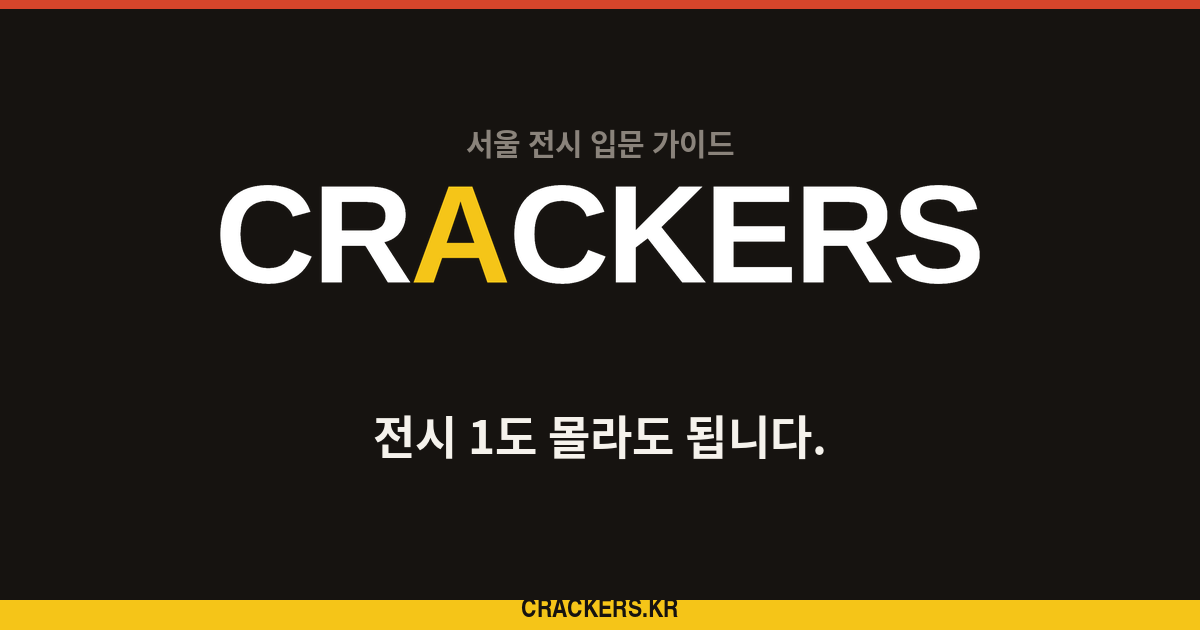
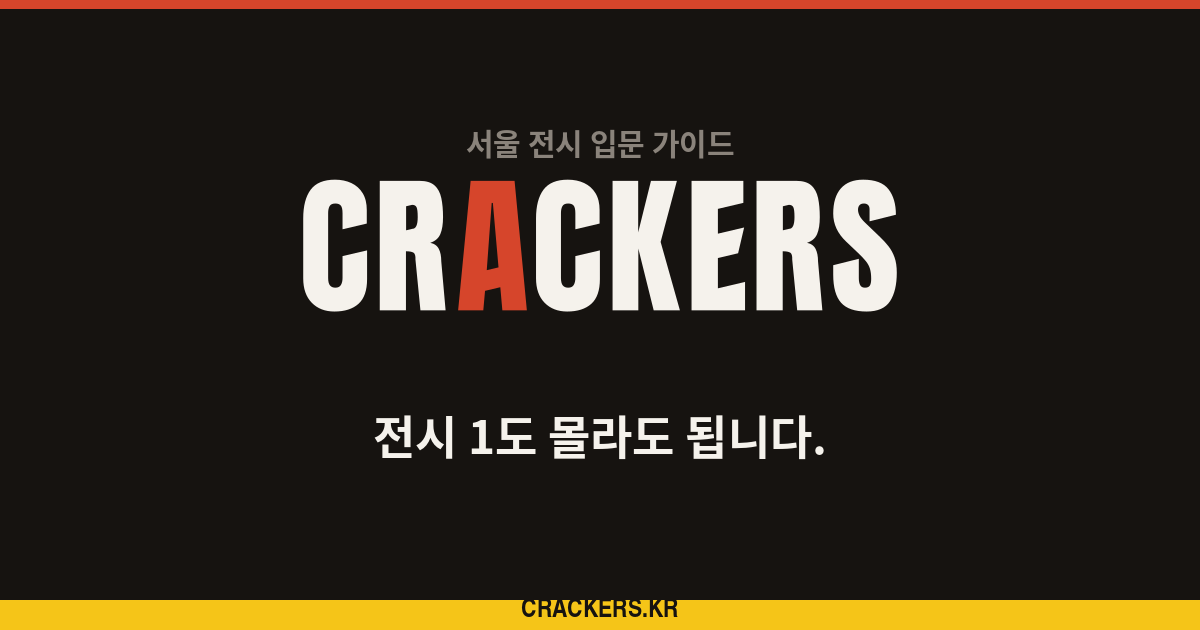
크래커스 최종 제호 적용

Changed region(s): [[0.185, 0.2714, 0.8325, 0.5127]]

diff --git a/daily07.html b/daily07.html
@@ -11,7 +11,7 @@
 <meta property="og:description" content="말려 나온 악보 끝, 비스듬한 파란 봉투, 녹슨 철물. 사물의 가장자리부터 전체 회화로 돌아옵니다.">
 <meta property="og:url" content="https://crackers.kr/daily07">
 <meta property="og:type" content="article">
-<meta property="og:image" content="https://crackers.kr/og.png">
+<meta property="og:image" content="https://crackers.kr/og.png?v=20261127-final">
 <meta name="twitter:card" content="summary_large_image">
 <link rel="icon" href="/favicon.ico?v=20261127" sizes="16x16 32x32">
 <link rel="icon" type="image/png" sizes="16x16" href="/favicon-16.png?v=20261127">
@@ -21,11 +21,11 @@
 <link rel="preconnect" href="https://fonts.gstatic.com" crossorigin>
 <link href="https://fonts.googleapis.com/css2?family=Anton&family=Black+Han+Sans&display=swap" rel="stylesheet">
 <link rel="stylesheet" as="style" crossorigin href="https://cdn.jsdelivr.net/gh/orioncactus/pretendard@v1.3.9/dist/web/variable/pretendardvariable-dynamic-subset.min.css">
-<link rel="stylesheet" href="/assets/article.css?v=20261127-brand">
+<link rel="stylesheet" href="/assets/article.css?v=20261127-final-wordmark">
 </head>
 <body class="daily-article">
 <a class="skip-link" href="#article">본문으로 바로가기</a>
-<div class="topbar"><a class="logo wordmark" href="index.html"><img class="brand-wordmark" src="/assets/brand/crackers-red-a.svg" width="412" height="102" alt="CRACKERS"></a><a class="back" href="daily.html">← 그림 속 일상 모아보기</a></div>
+<div class="topbar"><a class="logo wordmark" href="index.html"><img class="brand-wordmark" src="/assets/brand/crackers-red-a.svg?v=20261127-final" width="412" height="102" alt="CRACKERS"></a><a class="back" href="daily.html">← 그림 속 일상 모아보기</a></div>
 <main><article id="article">
   <span class="ep-label">그림 속 일상 07</span>
   <h1>바이올린보다,<br>종이 모서리부터 볼까요?</h1>
@@ -57,7 +57,7 @@
 <p>악보 끝과 파란 봉투, 위쪽 경첩을 전체 화면에서 다시 찾아보세요. 처음에는 바이올린만 보였다면 지금은 무엇이 먼저 눈에 들어오나요? 사물의 가장자리와 겹침을 따라 본 뒤, 물건들이 놓인 전체 관계로 돌아옵니다.</p>
   <aside class="sources"><h2>작품과 출처</h2><p>William Michael Harnett, The Old Violin,1886. National Gallery of Art,Washington,1993.15.1. Gift of Mr.and Mrs.Richard Mellon Scaife in honor of Paul Mellon. Public domain. 부분 장면은 같은 원본의 크롭이며 내용·색·방향을 바꾸지 않았습니다.</p><p>NGA의 작품 정보와 Visual Description을 참고해 사물의 위치와 매체를 확인했습니다. 악보·봉투·철물은 실제로 붙인 물건이 아니라 캔버스 위에 그려진 표현입니다. 인물의 감정·연주 소리·신문 글자 내용을 추정하지 않습니다.</p><ul><li><a href="https://www.nga.gov/artworks/79531-old-violin" target="_blank" rel="noopener">National Gallery of Art · 작품 정보·시각해설·Public domain</a></li><li><a href="https://api.nga.gov/iiif/e8bb571a-a90d-45fa-8589-cd98b4f952a4/full/full/0/default.jpg?attachment_filename=the_old_violin_1993.15.1.jpg" target="_blank" rel="noopener">NGA · 실제 제작 원본 이미지</a></li></ul></aside>
   <section class="newsletter-conversion" aria-labelledby="newsletter-title-daily07">
-    <p class="newsletter-label">CRACKERS LETTER</p>
+    <img class="brand-letter" src="/assets/brand/crackers-letter-on-dark.svg?v=20261127-final" width="386" height="68" alt="CRACKERS LETTER">
     <h2 id="newsletter-title-daily07">다음 전시, 조금 더 쉽게 골라볼까요?</h2>
     <p>서울 전시 추천과 그림 속 이야기, 처음 볼 때 눈여겨볼 포인트를 메일로 전해드려요.</p>
     <a href="https://maily.so/crackers?utm_source=crackers_website&amp;utm_medium=article_cta&amp;utm_campaign=live_pilot_newsletter_v1&amp;utm_content=daily07_footer" target="_blank" rel="noopener">CRACKERS LETTER 구독하기 →</a>

diff --git a/daily06.html b/daily06.html
@@ -11,7 +11,7 @@
 <meta property="og:description" content="왼쪽의 진열 모자, 오른쪽 손이 닿은 모자, 앞쪽의 파란 모자. 물건의 위치부터 가게를 봅니다.">
 <meta property="og:url" content="https://crackers.kr/daily06">
 <meta property="og:type" content="article">
-<meta property="og:image" content="https://crackers.kr/og.png">
+<meta property="og:image" content="https://crackers.kr/og.png?v=20261127-final">
 <meta name="twitter:card" content="summary_large_image">
 <link rel="icon" href="/favicon.ico?v=20261127" sizes="16x16 32x32">
 <link rel="icon" type="image/png" sizes="16x16" href="/favicon-16.png?v=20261127">
@@ -21,11 +21,11 @@
 <link rel="preconnect" href="https://fonts.gstatic.com" crossorigin>
 <link href="https://fonts.googleapis.com/css2?family=Anton&family=Black+Han+Sans&display=swap" rel="stylesheet">
 <link rel="stylesheet" as="style" crossorigin href="https://cdn.jsdelivr.net/gh/orioncactus/pretendard@v1.3.9/dist/web/variable/pretendardvariable-dynamic-subset.min.css">
-<link rel="stylesheet" href="/assets/article.css?v=20261127-brand">
+<link rel="stylesheet" href="/assets/article.css?v=20261127-final-wordmark">
 </head>
 <body class="daily-article">
 <a class="skip-link" href="#article">본문으로 바로가기</a>
-<div class="topbar"><a class="logo wordmark" href="index.html"><img class="brand-wordmark" src="/assets/brand/crackers-red-a.svg" width="412" height="102" alt="CRACKERS"></a><a class="back" href="daily.html">← 그림 속 일상 모아보기</a></div>
+<div class="topbar"><a class="logo wordmark" href="index.html"><img class="brand-wordmark" src="/assets/brand/crackers-red-a.svg?v=20261127-final" width="412" height="102" alt="CRACKERS"></a><a class="back" href="daily.html">← 그림 속 일상 모아보기</a></div>
 <main><article id="article">
   <span class="ep-label">그림 속 일상 06</span>
   <h1>모자 가게에서,<br>모자부터 골라볼까요?</h1>
@@ -57,7 +57,7 @@
 <p>진열된 모자, 손이 닿은 모자, 앞쪽의 파란 모자를 차례로 봤습니다. 모자와 사람의 위치를 전체 그림에서 다시 확인해보세요. 처음에는 인물만 보였다면 지금은 어느 물건이 먼저 눈에 들어오나요?</p>
   <aside class="sources"><h2>작품과 출처</h2><p>Edgar Degas, The Millinery Shop, 1879–86. Art Institute of Chicago, Mr. and Mrs. Lewis Larned Coburn Memorial Collection, 1933.428. Image via Wikimedia Commons, CC0. 일부 장면은 같은 원본을 크롭했습니다.</p><p>시카고미술관의 작품 정보·해설(description, CC BY 4.0)을 참고해 요약했습니다. 인물이 고객인지 작업자인지, 모자를 구매하거나 착용 중인지 단정하지 않습니다. 모자·손·위치에 관한 문구는 실제 원작을 바탕으로 한 CRACKERS의 관찰 안내입니다.</p><ul><li><a href="https://api.artic.edu/api/v1/artworks/14572" target="_blank" rel="noopener">시카고미술관 · 작품 정보와 해설(CC BY 4.0)</a></li><li><a href="https://commons.wikimedia.org/wiki/File:Hilaire_Germain_Edgar_Degas_-_The_Millinery_Shop_-_1933.428_-_Art_Institute_of_Chicago.jpg" target="_blank" rel="noopener">Wikimedia Commons · 실제 이미지와 CC0 표기</a></li></ul></aside>
   <section class="newsletter-conversion" aria-labelledby="newsletter-title-daily06">
-    <p class="newsletter-label">CRACKERS LETTER</p>
+    <img class="brand-letter" src="/assets/brand/crackers-letter-on-dark.svg?v=20261127-final" width="386" height="68" alt="CRACKERS LETTER">
     <h2 id="newsletter-title-daily06">다음 전시, 조금 더 쉽게 골라볼까요?</h2>
     <p>서울 전시 추천과 그림 속 이야기, 처음 볼 때 눈여겨볼 포인트를 메일로 전해드려요.</p>
     <a href="https://maily.so/crackers?utm_source=crackers_website&amp;utm_medium=article_cta&amp;utm_campaign=live_pilot_newsletter_v1&amp;utm_content=daily06_footer" target="_blank" rel="noopener">CRACKERS LETTER 구독하기 →</a>

diff --git a/daily09.html b/daily09.html
@@ -11,7 +11,7 @@
 <meta property="og:description" content="흰 천의 파란 그늘에서 주전자의 밝은 가장자리, 대야의 붉은빛으로. 작은 색을 찾은 뒤 방 전체의 빛을 봅니다.">
 <meta property="og:url" content="https://crackers.kr/daily09">
 <meta property="og:type" content="article">
-<meta property="og:image" content="https://crackers.kr/og.png">
+<meta property="og:image" content="https://crackers.kr/og.png?v=20261127-final">
 <meta name="twitter:card" content="summary_large_image">
 <link rel="icon" href="/favicon.ico?v=20261127" sizes="16x16 32x32">
 <link rel="icon" type="image/png" sizes="16x16" href="/favicon-16.png?v=20261127">
@@ -21,11 +21,11 @@
 <link rel="preconnect" href="https://fonts.gstatic.com" crossorigin>
 <link href="https://fonts.googleapis.com/css2?family=Anton&family=Black+Han+Sans&display=swap" rel="stylesheet">
 <link rel="stylesheet" as="style" crossorigin href="https://cdn.jsdelivr.net/gh/orioncactus/pretendard@v1.3.9/dist/web/variable/pretendardvariable-dynamic-subset.min.css">
-<link rel="stylesheet" href="/assets/article.css?v=20261127-brand">
+<link rel="stylesheet" href="/assets/article.css?v=20261127-final-wordmark">
 </head>
 <body class="daily-article">
 <a class="skip-link" href="#article">본문으로 바로가기</a>
-<div class="topbar"><a class="logo wordmark" href="index.html"><img class="brand-wordmark" src="/assets/brand/crackers-red-a.svg" width="412" height="102" alt="CRACKERS"></a><a class="back" href="daily.html">← 그림 속 일상 모아보기</a></div>
+<div class="topbar"><a class="logo wordmark" href="index.html"><img class="brand-wordmark" src="/assets/brand/crackers-red-a.svg?v=20261127-final" width="412" height="102" alt="CRACKERS"></a><a class="back" href="daily.html">← 그림 속 일상 모아보기</a></div>
 <main><article id="article">
   <span class="ep-label">그림 속 일상 09</span>
   <h1>하얀 천은<br>정말 하얗기만 할까요?</h1>
@@ -57,7 +57,7 @@
 <p>흰 천에서 금속으로 옮겨왔던 눈을 방 전체로 넓혀봅니다. 창과 천, 주전자에 놓인 밝은 부분들은 어떻게 이어지나요? 다음 그림에서는 <strong>흰 물건의 그늘</strong>부터 살펴보세요.</p>
   <aside class="sources"><h2>작품과 출처</h2><p>Johannes Vermeer, Young Woman with a Water Pitcher, ca. 1662. The Metropolitan Museum of Art, Marquand Collection, Gift of Henry G. Marquand, 1889, 89.15.21. Public Domain. 부분 이미지는 같은 원작의 크롭이며 색·내용·방향을 바꾸지 않았습니다.</p><p>Met 작품 정보에서 약 1662년, 캔버스 유채, 금도금한 은제 주전자와 대야를 확인했습니다. 천의 파란 그늘·금속 가장자리·대야의 붉은 색면은 지정 원작에서 관찰한 부분입니다. 인물의 신원·감정이나 특정 안료는 단정하지 않습니다.</p><ul><li><a href="https://www.metmuseum.org/art/collection/search/437881" target="_blank" rel="noopener">The Met · 작품 정보·해설·Public Domain</a></li><li><a href="https://collectionapi.metmuseum.org/public/collection/v1/objects/437881" target="_blank" rel="noopener">The Met Open Access · 객체 437881</a></li></ul></aside>
   <section class="newsletter-conversion" aria-labelledby="newsletter-title-daily09">
-    <p class="newsletter-label">CRACKERS LETTER</p>
+    <img class="brand-letter" src="/assets/brand/crackers-letter-on-dark.svg?v=20261127-final" width="386" height="68" alt="CRACKERS LETTER">
     <h2 id="newsletter-title-daily09">다음 전시, 조금 더 쉽게 골라볼까요?</h2>
     <p>서울 전시 추천과 그림 속 이야기, 처음 볼 때 눈여겨볼 포인트를 메일로 전해드려요.</p>
     <a href="https://maily.so/crackers?utm_source=crackers_website&amp;utm_medium=article_cta&amp;utm_campaign=live_pilot_newsletter_v1&amp;utm_content=daily09_footer" target="_blank" rel="noopener">CRACKERS LETTER 구독하기 →</a>

diff --git a/daily05.html b/daily05.html
@@ -11,7 +11,7 @@
 <meta property="og:description" content="잡지, 장갑 낀 두 손, 왼쪽의 잔. 마네가 그린 읽는 시간을 작은 물건부터 들여다봅니다.">
 <meta property="og:url" content="https://crackers.kr/daily05">
 <meta property="og:type" content="article">
-<meta property="og:image" content="https://crackers.kr/og.png">
+<meta property="og:image" content="https://crackers.kr/og.png?v=20261127-final">
 <meta name="twitter:card" content="summary_large_image">
 <link rel="icon" href="/favicon.ico?v=20261127" sizes="16x16 32x32">
 <link rel="icon" type="image/png" sizes="16x16" href="/favicon-16.png?v=20261127">
@@ -21,11 +21,11 @@
 <link rel="preconnect" href="https://fonts.gstatic.com" crossorigin>
 <link href="https://fonts.googleapis.com/css2?family=Anton&family=Black+Han+Sans&display=swap" rel="stylesheet">
 <link rel="stylesheet" as="style" crossorigin href="https://cdn.jsdelivr.net/gh/orioncactus/pretendard@v1.3.9/dist/web/variable/pretendardvariable-dynamic-subset.min.css">
-<link rel="stylesheet" href="/assets/article.css?v=20261127-brand">
+<link rel="stylesheet" href="/assets/article.css?v=20261127-final-wordmark">
 </head>
 <body class="daily-article">
 <a class="skip-link" href="#article">본문으로 바로가기</a>
-<div class="topbar"><a class="logo wordmark" href="index.html"><img class="brand-wordmark" src="/assets/brand/crackers-red-a.svg" width="412" height="102" alt="CRACKERS"></a><a class="back" href="daily.html">← 그림 속 일상 모아보기</a></div>
+<div class="topbar"><a class="logo wordmark" href="index.html"><img class="brand-wordmark" src="/assets/brand/crackers-red-a.svg?v=20261127-final" width="412" height="102" alt="CRACKERS"></a><a class="back" href="daily.html">← 그림 속 일상 모아보기</a></div>
 <main><article id="article">
   <span class="ep-label">그림 속 일상 05</span>
   <h1>장갑을 낀 채,<br>무엇을 읽고 있을까요?</h1>
@@ -57,7 +57,7 @@
 <p>잡지에서 손으로, 손에서 잔으로 시선을 옮겼습니다. 다시 전체 그림을 보면 처음과 다른 물건이 눈에 들어오나요? 인물의 이름이나 기분을 알아야만 이 장면을 볼 수 있는 것은 아닙니다.</p>
   <aside class="sources"><h2>작품과 출처</h2><p>Édouard Manet, Woman Reading, 1880–82. The Art Institute of Chicago, Mr. and Mrs. Lewis Larned Coburn Memorial Collection, 1933.435. Image via Wikimedia Commons, CC0. 일부 장면은 동일 원본을 확대·크롭했습니다.</p><p>시카고미술관 작품 정보와 해설(description, CC BY 4.0)을 참고해 한국어로 요약했습니다. 제작 연도는 최신 소장기관 안내인 1880–82를 사용했습니다. 인물의 감정이나 장갑을 낀 이유는 단정하지 않습니다.</p><ul><li><a href="https://api.artic.edu/api/v1/artworks/14591" target="_blank" rel="noopener">시카고미술관 · 작품 정보와 해설(CC BY 4.0)</a></li><li><a href="https://commons.wikimedia.org/wiki/File:Édouard_Manet_-_Woman_Reading_-_1933.435_-_Art_Institute_of_Chicago.jpg" target="_blank" rel="noopener">Wikimedia Commons · 실제 이미지와 CC0 표시</a></li></ul></aside>
   <section class="newsletter-conversion" aria-labelledby="newsletter-title-daily05">
-    <p class="newsletter-label">CRACKERS LETTER</p>
+    <img class="brand-letter" src="/assets/brand/crackers-letter-on-dark.svg?v=20261127-final" width="386" height="68" alt="CRACKERS LETTER">
     <h2 id="newsletter-title-daily05">다음 전시, 조금 더 쉽게 골라볼까요?</h2>
     <p>서울 전시 추천과 그림 속 이야기, 처음 볼 때 눈여겨볼 포인트를 메일로 전해드려요.</p>
     <a href="https://maily.so/crackers?utm_source=crackers_website&amp;utm_medium=article_cta&amp;utm_campaign=live_pilot_newsletter_v1&amp;utm_content=daily05_footer" target="_blank" rel="noopener">CRACKERS LETTER 구독하기 →</a>

diff --git a/daily08.html b/daily08.html
@@ -11,7 +11,7 @@
 <meta property="og:description" content="체스판과 손에서 오른쪽 아래 고양이, 뒤에 선 관전자로. 작은 부분을 찾은 뒤 방 전체로 돌아옵니다.">
 <meta property="og:url" content="https://crackers.kr/daily08">
 <meta property="og:type" content="article">
-<meta property="og:image" content="https://crackers.kr/og.png">
+<meta property="og:image" content="https://crackers.kr/og.png?v=20261127-final">
 <meta name="twitter:card" content="summary_large_image">
 <link rel="icon" href="/favicon.ico?v=20261127" sizes="16x16 32x32">
 <link rel="icon" type="image/png" sizes="16x16" href="/favicon-16.png?v=20261127">
@@ -21,11 +21,11 @@
 <link rel="preconnect" href="https://fonts.gstatic.com" crossorigin>
 <link href="https://fonts.googleapis.com/css2?family=Anton&family=Black+Han+Sans&display=swap" rel="stylesheet">
 <link rel="stylesheet" as="style" crossorigin href="https://cdn.jsdelivr.net/gh/orioncactus/pretendard@v1.3.9/dist/web/variable/pretendardvariable-dynamic-subset.min.css">
-<link rel="stylesheet" href="/assets/article.css?v=20261127-brand">
+<link rel="stylesheet" href="/assets/article.css?v=20261127-final-wordmark">
 </head>
 <body class="daily-article">
 <a class="skip-link" href="#article">본문으로 바로가기</a>
-<div class="topbar"><a class="logo wordmark" href="index.html"><img class="brand-wordmark" src="/assets/brand/crackers-red-a.svg" width="412" height="102" alt="CRACKERS"></a><a class="back" href="daily.html">← 그림 속 일상 모아보기</a></div>
+<div class="topbar"><a class="logo wordmark" href="index.html"><img class="brand-wordmark" src="/assets/brand/crackers-red-a.svg?v=20261127-final" width="412" height="102" alt="CRACKERS"></a><a class="back" href="daily.html">← 그림 속 일상 모아보기</a></div>
 <main><article id="article">
   <span class="ep-label">그림 속 일상 08</span>
   <h1>체스 두는 두 사람,<br>방에는 누가 더 있나요?</h1>
@@ -57,7 +57,7 @@
 <p>이킨스가 <strong>1876년 나무판에 유화로 그린 작품</strong>입니다. 전체에서 체스판과 손, 고양이, 관전자를 다시 찾아보세요. 처음엔 두 사람의 게임만 보였다면 지금은 무엇이 더 눈에 들어오나요?</p>
   <aside class="sources"><h2>작품과 출처</h2><p>Thomas Eakins, The Chess Players, 1876. The Metropolitan Museum of Art, 81.14. Gift of the artist, 1881. Public Domain. 부분 이미지는 같은 원작의 크롭이며 색·내용·방향을 바꾸지 않았습니다.</p><p>Met 작품 해설에서 뒤에 선 인물은 화가의 아버지이며 두 친구의 체스를 지켜보고 있다고 확인했습니다. 고양이는 원작 오른쪽 아래에서 직접 관찰한 요소입니다. 제작연도 1876년과 기증연도 1881년을 구분합니다.</p><ul><li><a href="https://www.metmuseum.org/art/collection/search/10813" target="_blank" rel="noopener">The Met · 작품 정보·해설·Public Domain</a></li><li><a href="https://images.metmuseum.org/CRDImages/ad/original/DP-18074-001.jpg" target="_blank" rel="noopener">The Met · 실제 제작 원본 이미지</a></li></ul></aside>
   <section class="newsletter-conversion" aria-labelledby="newsletter-title-daily08">
-    <p class="newsletter-label">CRACKERS LETTER</p>
+    <img class="brand-letter" src="/assets/brand/crackers-letter-on-dark.svg?v=20261127-final" width="386" height="68" alt="CRACKERS LETTER">
     <h2 id="newsletter-title-daily08">다음 전시, 조금 더 쉽게 골라볼까요?</h2>
     <p>서울 전시 추천과 그림 속 이야기, 처음 볼 때 눈여겨볼 포인트를 메일로 전해드려요.</p>
     <a href="https://maily.so/crackers?utm_source=crackers_website&amp;utm_medium=article_cta&amp;utm_campaign=live_pilot_newsletter_v1&amp;utm_content=daily08_footer" target="_blank" rel="noopener">CRACKERS LETTER 구독하기 →</a>

diff --git a/daily10.html b/daily10.html
@@ -11,7 +11,7 @@
 <meta property="og:description" content="커다란 빨래 보따리에서 맞잡은 손으로, 다시 두 사람이 오르는 계단으로 시선을 내려봅니다.">
 <meta property="og:url" content="https://crackers.kr/daily10">
 <meta property="og:type" content="article">
-<meta property="og:image" content="https://crackers.kr/og.png">
+<meta property="og:image" content="https://crackers.kr/og.png?v=20261127-final">
 <meta name="twitter:card" content="summary_large_image">
 <link rel="icon" href="/favicon.ico?v=20261127" sizes="16x16 32x32">
 <link rel="icon" type="image/png" sizes="16x16" href="/favicon-16.png?v=20261127">
@@ -21,11 +21,11 @@
 <link rel="preconnect" href="https://fonts.gstatic.com" crossorigin>
 <link href="https://fonts.googleapis.com/css2?family=Anton&family=Black+Han+Sans&display=swap" rel="stylesheet">
 <link rel="stylesheet" as="style" crossorigin href="https://cdn.jsdelivr.net/gh/orioncactus/pretendard@v1.3.9/dist/web/variable/pretendardvariable-dynamic-subset.min.css">
-<link rel="stylesheet" href="/assets/article.css?v=20261127-brand">
+<link rel="stylesheet" href="/assets/article.css?v=20261127-final-wordmark">
 </head>
 <body class="daily-article">
 <a class="skip-link" href="#article">본문으로 바로가기</a>
-<div class="topbar"><a class="logo wordmark" href="index.html"><img class="brand-wordmark" src="/assets/brand/crackers-red-a.svg" width="412" height="102" alt="CRACKERS"></a><a class="back" href="daily.html">← 그림 속 일상 모아보기</a></div>
+<div class="topbar"><a class="logo wordmark" href="index.html"><img class="brand-wordmark" src="/assets/brand/crackers-red-a.svg?v=20261127-final" width="412" height="102" alt="CRACKERS"></a><a class="back" href="daily.html">← 그림 속 일상 모아보기</a></div>
 <main><article id="article">
   <span class="ep-label">그림 속 일상 10</span>
   <h1>빨래 보따리를 안은 사람은<br>왜 한 손을 낮췄을까요?</h1>
@@ -57,7 +57,7 @@
 <p>처음에는 보따리가 눈에 띄었나요? 이제 보따리와 맞잡은 손을 함께 봅니다. 그림을 다시 봤을 때 눈이 조금 더 오래 머무는 곳은 어디인가요?</p>
   <aside class="sources"><h2>작품과 출처</h2><p>Honoré Daumier, The Laundress, 1863년 추정. The Metropolitan Museum of Art, 47.122. Bequest of Lillie P. Bliss, 1931. Public Domain.</p><p>메트는 화면에 적힌 제작연도의 마지막 숫자가 흐려진 점을 고려해 186[3?]로 표기합니다. 모든 부분 이미지는 메트 소장 47.122 원작에서 잘라냈습니다.</p><ul><li><a href="https://www.metmuseum.org/art/collection/search/436091" target="_blank" rel="noopener">The Met · 작품 정보, 해설과 Public Domain 원본</a></li></ul></aside>
   <section class="newsletter-conversion" aria-labelledby="newsletter-title-daily10">
-    <p class="newsletter-label">CRACKERS LETTER</p>
+    <img class="brand-letter" src="/assets/brand/crackers-letter-on-dark.svg?v=20261127-final" width="386" height="68" alt="CRACKERS LETTER">
     <h2 id="newsletter-title-daily10">다음 전시, 조금 더 쉽게 골라볼까요?</h2>
     <p>서울 전시 추천과 그림 속 이야기, 처음 볼 때 눈여겨볼 포인트를 메일로 전해드려요.</p>
     <a href="https://maily.so/crackers?utm_source=crackers_website&amp;utm_medium=article_cta&amp;utm_campaign=live_pilot_newsletter_v1&amp;utm_content=daily10_footer" target="_blank" rel="noopener">CRACKERS LETTER 구독하기 →</a>

diff --git a/daily11.html b/daily11.html
@@ -11,7 +11,7 @@
 <meta property="og:description" content="검은 난간과 흰 증기 사이에서 서로 다른 방향을 보는 두 사람을 살펴봅니다.">
 <meta property="og:url" content="https://crackers.kr/daily11">
 <meta property="og:type" content="article">
-<meta property="og:image" content="https://crackers.kr/og.png">
+<meta property="og:image" content="https://crackers.kr/og.png?v=20261127-final">
 <meta name="twitter:card" content="summary_large_image">
 <link rel="icon" href="/favicon.ico?v=20261127" sizes="16x16 32x32">
 <link rel="icon" type="image/png" sizes="16x16" href="/favicon-16.png?v=20261127">
@@ -21,11 +21,11 @@
 <link rel="preconnect" href="https://fonts.gstatic.com" crossorigin>
 <link href="https://fonts.googleapis.com/css2?family=Anton&family=Black+Han+Sans&display=swap" rel="stylesheet">
 <link rel="stylesheet" as="style" crossorigin href="https://cdn.jsdelivr.net/gh/orioncactus/pretendard@v1.3.9/dist/web/variable/pretendardvariable-dynamic-subset.min.css">
-<link rel="stylesheet" href="/assets/article.css?v=20261127-brand">
+<link rel="stylesheet" href="/assets/article.css?v=20261127-final-wordmark">
 </head>
 <body class="daily-article">
 <a class="skip-link" href="#article">본문으로 바로가기</a>
-<div class="topbar"><a class="logo wordmark" href="index.html"><img class="brand-wordmark" src="/assets/brand/crackers-red-a.svg" width="412" height="102" alt="CRACKERS"></a><a class="back" href="daily.html">← 그림 속 일상 모아보기</a></div>
+<div class="topbar"><a class="logo wordmark" href="index.html"><img class="brand-wordmark" src="/assets/brand/crackers-red-a.svg?v=20261127-final" width="412" height="102" alt="CRACKERS"></a><a class="back" href="daily.html">← 그림 속 일상 모아보기</a></div>
 <main><article id="article">
   <span class="ep-label">그림 속 일상 11</span>
   <h1>아이는 난간 너머로<br>무엇을 보고 있을까요?</h1>
@@ -57,7 +57,7 @@
 <p>가운데 난간을 기준으로 이쪽의 두 사람과 저쪽의 증기를 함께 보세요. 처음보다 오래 눈이 머무는 곳은 어디인가요?</p>
   <aside class="sources"><h2>작품과 출처</h2><p>Édouard Manet, The Railway, 1873. National Gallery of Art, 1956.10.1. Gift of Horace Havemeyer in memory of his mother, Louisine W. Havemeyer. Public Domain.</p><p>난간 아래의 선로와 화면 오른쪽의 퐁 드 뢰로프는 미국 내셔널갤러리 해설을 따랐습니다. 부분 이미지는 NGA 소장 1956.10.1에서 잘라냈습니다.</p><ul><li><a href="https://www.nga.gov/artworks/43624-railway" target="_blank" rel="noopener">미국 내셔널갤러리 · 작품 해설과 공개 영역 원본</a></li></ul></aside>
   <section class="newsletter-conversion" aria-labelledby="newsletter-title-daily11">
-    <p class="newsletter-label">CRACKERS LETTER</p>
+    <img class="brand-letter" src="/assets/brand/crackers-letter-on-dark.svg?v=20261127-final" width="386" height="68" alt="CRACKERS LETTER">
     <h2 id="newsletter-title-daily11">다음 전시, 조금 더 쉽게 골라볼까요?</h2>
     <p>서울 전시 추천과 그림 속 이야기, 처음 볼 때 눈여겨볼 포인트를 메일로 전해드려요.</p>
     <a href="https://maily.so/crackers?utm_source=crackers_website&amp;utm_medium=article_cta&amp;utm_campaign=live_pilot_newsletter_v1&amp;utm_content=daily11_footer" target="_blank" rel="noopener">CRACKERS LETTER 구독하기 →</a>

diff --git a/ep17.html b/ep17.html
@@ -11,7 +11,7 @@
 <meta property="og:description" content="같은 비 아래, 다른 시기의 붓질이 남았어요. 르누아르 우산들·명화 에피소드 EP17.">
 <meta property="og:url" content="https://crackers.kr/ep17">
 <meta property="og:type" content="article">
-<meta property="og:image" content="https://crackers.kr/og.png">
+<meta property="og:image" content="https://crackers.kr/og.png?v=20261127-final">
 <meta name="twitter:card" content="summary_large_image">
 <link rel="icon" href="/favicon.ico?v=20261127" sizes="16x16 32x32">
 <link rel="icon" type="image/png" sizes="16x16" href="/favicon-16.png?v=20261127">
@@ -21,12 +21,12 @@
 <link rel="preconnect" href="https://fonts.gstatic.com" crossorigin>
 <link href="https://fonts.googleapis.com/css2?family=Anton&family=Black+Han+Sans&display=swap" rel="stylesheet">
 <link rel="stylesheet" as="style" crossorigin href="https://cdn.jsdelivr.net/gh/orioncactus/pretendard@v1.3.9/dist/web/variable/pretendardvariable-dynamic-subset.min.css">
-<link rel="stylesheet" href="/assets/article.css?v=20261127-brand">
+<link rel="stylesheet" href="/assets/article.css?v=20261127-final-wordmark">
 </head>
 <body>
 <a class="skip-link" href="#article">본문으로 바로가기</a>
 <div class="topbar">
-  <a class="logo wordmark" href="index.html"><img class="brand-wordmark" src="/assets/brand/crackers-red-a.svg" width="412" height="102" alt="CRACKERS"></a>
+  <a class="logo wordmark" href="index.html"><img class="brand-wordmark" src="/assets/brand/crackers-red-a.svg?v=20261127-final" width="412" height="102" alt="CRACKERS"></a>
   <a class="back" href="index.html#archive">← 아카이브로</a>
 </div>
 
@@ -84,7 +84,7 @@
     <p class="instagram-note">CRACKERS의 다음 이야기는 <a href="https://instagram.com/crackers.kr" target="_blank" rel="noopener">인스타(@crackers.kr)</a>에서도 이어집니다.</p>
     <aside class="sources"><h2>참고한 자료</h2><ul><li><a href="https://www.nationalgallery.org.uk/paintings/pierre-auguste-renoir-the-umbrellas" target="_blank" rel="noopener">www.nationalgallery.org.uk</a></li><li><a href="https://www.nationalgallery.org.uk/research/publications/technical-bulletin/renoir-s-umbrellas-unfurled-again" target="_blank" rel="noopener">www.nationalgallery.org.uk</a></li><li><a href="https://commons.wikimedia.org/wiki/File:Pierre-Auguste_Renoir,_The_Umbrellas,_ca._1881-86.jpg" target="_blank" rel="noopener">commons.wikimedia.org</a></li></ul></aside>
     <section class="newsletter-conversion" aria-labelledby="newsletter-title-ep17">
-    <p class="newsletter-label">CRACKERS LETTER</p>
+    <img class="brand-letter" src="/assets/brand/crackers-letter-on-dark.svg?v=20261127-final" width="386" height="68" alt="CRACKERS LETTER">
     <h2 id="newsletter-title-ep17">다음 전시, 조금 더 쉽게 골라볼까요?</h2>
     <p>서울 전시 추천과 그림 속 이야기, 처음 볼 때 눈여겨볼 포인트를 메일로 전해드려요.</p>
     <a href="https://maily.so/crackers?utm_source=crackers_website&amp;utm_medium=article_cta&amp;utm_campaign=live_pilot_newsletter_v1&amp;utm_content=ep17_footer" target="_blank" rel="noopener">CRACKERS LETTER 구독하기 →</a>

diff --git a/ep15.html b/ep15.html
@@ -11,7 +11,7 @@
 <meta property="og:description" content="이 두 사람보다 먼저 그려진 것은 집이었습니다. 명화 에피소드 EP15.">
 <meta property="og:url" content="https://crackers.kr/ep15">
 <meta property="og:type" content="article">
-<meta property="og:image" content="https://crackers.kr/og.png">
+<meta property="og:image" content="https://crackers.kr/og.png?v=20261127-final">
 <meta name="twitter:card" content="summary_large_image">
 <link rel="icon" href="/favicon.ico?v=20261127" sizes="16x16 32x32">
 <link rel="icon" type="image/png" sizes="16x16" href="/favicon-16.png?v=20261127">
@@ -21,12 +21,12 @@
 <link rel="preconnect" href="https://fonts.gstatic.com" crossorigin>
 <link href="https://fonts.googleapis.com/css2?family=Anton&family=Black+Han+Sans&display=swap" rel="stylesheet">
 <link rel="stylesheet" as="style" crossorigin href="https://cdn.jsdelivr.net/gh/orioncactus/pretendard@v1.3.9/dist/web/variable/pretendardvariable-dynamic-subset.min.css">
-<link rel="stylesheet" href="/assets/article.css?v=20261127-brand">
+<link rel="stylesheet" href="/assets/article.css?v=20261127-final-wordmark">
 </head>
 <body>
 <a class="skip-link" href="#article">본문으로 바로가기</a>
 <div class="topbar">
-  <a class="logo wordmark" href="index.html"><img class="brand-wordmark" src="/assets/brand/crackers-red-a.svg" width="412" height="102" alt="CRACKERS"></a>
+  <a class="logo wordmark" href="index.html"><img class="brand-wordmark" src="/assets/brand/crackers-red-a.svg?v=20261127-final" width="412" height="102" alt="CRACKERS"></a>
   <a class="back" href="index.html#archive">← 아카이브로</a>
 </div>
 
@@ -80,7 +80,7 @@
     <p class="instagram-note">CRACKERS의 다음 이야기는 <a href="https://instagram.com/crackers.kr" target="_blank" rel="noopener">인스타(@crackers.kr)</a>에서도 이어집니다.</p>
     <aside class="sources"><h2>참고한 자료</h2><ul><li><a href="https://api.artic.edu/api/v1/artworks/6565" target="_blank" rel="noopener">api.artic.edu</a></li><li><a href="https://americangothichouse.org/american-gothic" target="_blank" rel="noopener">americangothichouse.org</a></li><li><a href="https://commons.wikimedia.org/wiki/File:Grant_Wood_-_American_Gothic_(1930).jpg" target="_blank" rel="noopener">commons.wikimedia.org</a></li></ul></aside>
     <section class="newsletter-conversion" aria-labelledby="newsletter-title-ep15">
-    <p class="newsletter-label">CRACKERS LETTER</p>
+    <img class="brand-letter" src="/assets/brand/crackers-letter-on-dark.svg?v=20261127-final" width="386" height="68" alt="CRACKERS LETTER">
     <h2 id="newsletter-title-ep15">다음 전시, 조금 더 쉽게 골라볼까요?</h2>
     <p>서울 전시 추천과 그림 속 이야기, 처음 볼 때 눈여겨볼 포인트를 메일로 전해드려요.</p>
     <a href="https://maily.so/crackers?utm_source=crackers_website&amp;utm_medium=article_cta&amp;utm_campaign=live_pilot_newsletter_v1&amp;utm_content=ep15_footer" target="_blank" rel="noopener">CRACKERS LETTER 구독하기 →</a>

diff --git a/ep16.html b/ep16.html
@@ -11,7 +11,7 @@
 <meta property="og:description" content="실제 마지막 항해 때는 없었던 돛대가 그림에는 왜 남아 있을까요? 명화 에피소드 EP16.">
 <meta property="og:url" content="https://crackers.kr/ep16">
 <meta property="og:type" content="article">
-<meta property="og:image" content="https://crackers.kr/og.png">
+<meta property="og:image" content="https://crackers.kr/og.png?v=20261127-final">
 <meta name="twitter:card" content="summary_large_image">
 <link rel="icon" href="/favicon.ico?v=20261127" sizes="16x16 32x32">
 <link rel="icon" type="image/png" sizes="16x16" href="/favicon-16.png?v=20261127">
@@ -21,12 +21,12 @@
 <link rel="preconnect" href="https://fonts.gstatic.com" crossorigin>
 <link href="https://fonts.googleapis.com/css2?family=Anton&family=Black+Han+Sans&display=swap" rel="stylesheet">
 <link rel="stylesheet" as="style" crossorigin href="https://cdn.jsdelivr.net/gh/orioncactus/pretendard@v1.3.9/dist/web/variable/pretendardvariable-dynamic-subset.min.css">
-<link rel="stylesheet" href="/assets/article.css?v=20261127-brand">
+<link rel="stylesheet" href="/assets/article.css?v=20261127-final-wordmark">
 </head>
 <body>
 <a class="skip-link" href="#article">본문으로 바로가기</a>
 <div class="topbar">
-  <a class="logo wordmark" href="index.html"><img class="brand-wordmark" src="/assets/brand/crackers-red-a.svg" width="412" height="102" alt="CRACKERS"></a>
+  <a class="logo wordmark" href="index.html"><img class="brand-wordmark" src="/assets/brand/crackers-red-a.svg?v=20261127-final" width="412" height="102" alt="CRACKERS"></a>
   <a class="back" href="index.html#archive">← 아카이브로</a>
 </div>
 
@@ -75,7 +75,7 @@
     <p class="instagram-note">CRACKERS의 다음 이야기는 <a href="https://instagram.com/crackers.kr" target="_blank" rel="noopener">인스타(@crackers.kr)</a>에서도 이어집니다.</p>
     <aside class="sources"><h2>참고한 자료</h2><ul><li><a href="https://www.nationalgallery.org.uk/paintings/joseph-mallord-william-turner-the-fighting-temeraire" target="_blank" rel="noopener">www.nationalgallery.org.uk</a></li><li><a href="https://commons.wikimedia.org/wiki/File:The_Fighting_Temeraire,_JMW_Turner,_National_Gallery.jpg" target="_blank" rel="noopener">commons.wikimedia.org</a></li></ul></aside>
     <section class="newsletter-conversion" aria-labelledby="newsletter-title-ep16">
-    <p class="newsletter-label">CRACKERS LETTER</p>
+    <img class="brand-letter" src="/assets/brand/crackers-letter-on-dark.svg?v=20261127-final" width="386" height="68" alt="CRACKERS LETTER">
     <h2 id="newsletter-title-ep16">다음 전시, 조금 더 쉽게 골라볼까요?</h2>
     <p>서울 전시 추천과 그림 속 이야기, 처음 볼 때 눈여겨볼 포인트를 메일로 전해드려요.</p>
     <a href="https://maily.so/crackers?utm_source=crackers_website&amp;utm_medium=article_cta&amp;utm_campaign=live_pilot_newsletter_v1&amp;utm_content=ep16_footer" target="_blank" rel="noopener">CRACKERS LETTER 구독하기 →</a>

diff --git a/daily.html b/daily.html
@@ -11,7 +11,7 @@
 <meta property="og:description" content="음식, 방, 옷, 물건부터 그림을 들여다보는 CRACKERS의 이미지 중심 연재.">
 <meta property="og:url" content="https://crackers.kr/daily">
 <meta property="og:type" content="website">
-<meta property="og:image" content="https://crackers.kr/og.png">
+<meta property="og:image" content="https://crackers.kr/og.png?v=20261127-final">
 <meta name="twitter:card" content="summary_large_image">
 <link rel="icon" href="/favicon.ico?v=20261127" sizes="16x16 32x32">
 <link rel="icon" type="image/png" sizes="16x16" href="/favicon-16.png?v=20261127">
@@ -21,11 +21,11 @@
 <link rel="preconnect" href="https://fonts.gstatic.com" crossorigin>
 <link href="https://fonts.googleapis.com/css2?family=Anton&family=Black+Han+Sans&display=swap" rel="stylesheet">
 <link rel="stylesheet" as="style" crossorigin href="https://cdn.jsdelivr.net/gh/orioncactus/pretendard@v1.3.9/dist/web/variable/pretendardvariable-dynamic-subset.min.css">
-<link rel="stylesheet" href="/assets/home.css?v=20261127-brand">
+<link rel="stylesheet" href="/assets/home.css?v=20261127-final-wordmark">
 </head>
 <body>
 <a class="skip-link" href="#daily-content">본문으로 바로가기</a>
-<header class="archive-masthead"><div class="wrap"><a class="wordmark" href="index.html"><img class="brand-wordmark" src="/assets/brand/crackers-red-a.svg" width="412" height="102" alt="CRACKERS"></a><a class="archive-back" href="index.html#daily">← 홈페이지로</a></div></header>
+<header class="archive-masthead"><div class="wrap"><a class="wordmark" href="index.html"><img class="brand-wordmark" src="/assets/brand/crackers-red-a.svg?v=20261127-final" width="412" height="102" alt="CRACKERS"></a><a class="archive-back" href="index.html#daily">← 홈페이지로</a></div></header>
 <main id="daily-content" class="wrap daily-archive">
   <header><span class="label">CRACKERS · 그림 속 일상</span><h1>그림 속 일상</h1><p class="daily-intro">음식, 방, 옷, 물건부터 그림을 들여다봅니다.<br>어려운 용어 없이, 눈에 들어온 것 하나부터요.</p><p class="daily-count">독립 연재 · 11편</p></header>
   <div class="grid daily-grid"><a class="story" href="daily11.html">
@@ -95,5 +95,5 @@
   <span class="min">빈센트 반 고흐 · 〈감자 먹는 사람들〉, 1885</span>
 </a></div>
 </main>
-<footer><div class="in"><span class="wordmark"><img class="brand-wordmark" src="/assets/brand/crackers-on-dark.svg" width="412" height="102" alt="CRACKERS"></span><a href="https://maily.so/crackers" target="_blank" rel="noopener">주말 전시 뉴스레터 구독 →</a><span>© 2026 CRACKERS</span></div></footer>
+<footer><div class="in"><span class="wordmark"><img class="brand-wordmark" src="/assets/brand/crackers-on-dark.svg?v=20261127-final" width="412" height="102" alt="CRACKERS"></span><a href="https://maily.so/crackers" target="_blank" rel="noopener">주말 전시 뉴스레터 구독 →</a><span>© 2026 CRACKERS</span></div></footer>
 </body></html>

diff --git a/ep19.html b/ep19.html
@@ -11,7 +11,7 @@
 <meta property="og:description" content="생존한 소년이 훗날 주문한 구출 장면. 손과 밧줄을 따라 제목 밖의 사람들을 다시 봅니다. 명화 에피소드 EP19.">
 <meta property="og:url" content="https://crackers.kr/ep19">
 <meta property="og:type" content="article">
-<meta property="og:image" content="https://crackers.kr/og.png">
+<meta property="og:image" content="https://crackers.kr/og.png?v=20261127-final">
 <meta name="twitter:card" content="summary_large_image">
 <link rel="icon" href="/favicon.ico?v=20261127" sizes="16x16 32x32">
 <link rel="icon" type="image/png" sizes="16x16" href="/favicon-16.png?v=20261127">
@@ -21,12 +21,12 @@
 <link rel="preconnect" href="https://fonts.gstatic.com" crossorigin>
 <link href="https://fonts.googleapis.com/css2?family=Anton&family=Black+Han+Sans&display=swap" rel="stylesheet">
 <link rel="stylesheet" as="style" crossorigin href="https://cdn.jsdelivr.net/gh/orioncactus/pretendard@v1.3.9/dist/web/variable/pretendardvariable-dynamic-subset.min.css">
-<link rel="stylesheet" href="/assets/article.css?v=20261127-brand">
+<link rel="stylesheet" href="/assets/article.css?v=20261127-final-wordmark">
 </head>
 <body>
 <a class="skip-link" href="#article">본문으로 바로가기</a>
 <div class="topbar">
-  <a class="logo wordmark" href="index.html"><img class="brand-wordmark" src="/assets/brand/crackers-red-a.svg" width="412" height="102" alt="CRACKERS"></a>
+  <a class="logo wordmark" href="index.html"><img class="brand-wordmark" src="/assets/brand/crackers-red-a.svg?v=20261127-final" width="412" height="102" alt="CRACKERS"></a>
   <a class="back" href="index.html#archive">← 아카이브로</a>
 </div>
 
@@ -79,7 +79,7 @@
     <p class="instagram-note">CRACKERS의 다음 이야기는 <a href="https://instagram.com/crackers.kr" target="_blank" rel="noopener">인스타(@crackers.kr)</a>에서도 이어집니다.</p>
     <aside class="sources"><h2>참고한 자료</h2><ul><li><a href="https://www.nga.gov/artworks/46471-watson-and-shark" target="_blank" rel="noopener">www.nga.gov</a></li><li><a href="https://www.nga.gov/stories/articles/centering-black-sailor-copleys-watson-and-shark" target="_blank" rel="noopener">www.nga.gov</a></li></ul></aside>
     <section class="newsletter-conversion" aria-labelledby="newsletter-title-ep19">
-    <p class="newsletter-label">CRACKERS LETTER</p>
+    <img class="brand-letter" src="/assets/brand/crackers-letter-on-dark.svg?v=20261127-final" width="386" height="68" alt="CRACKERS LETTER">
     <h2 id="newsletter-title-ep19">다음 전시, 조금 더 쉽게 골라볼까요?</h2>
     <p>서울 전시 추천과 그림 속 이야기, 처음 볼 때 눈여겨볼 포인트를 메일로 전해드려요.</p>
     <a href="https://maily.so/crackers?utm_source=crackers_website&amp;utm_medium=article_cta&amp;utm_campaign=live_pilot_newsletter_v1&amp;utm_content=ep19_footer" target="_blank" rel="noopener">CRACKERS LETTER 구독하기 →</a>
